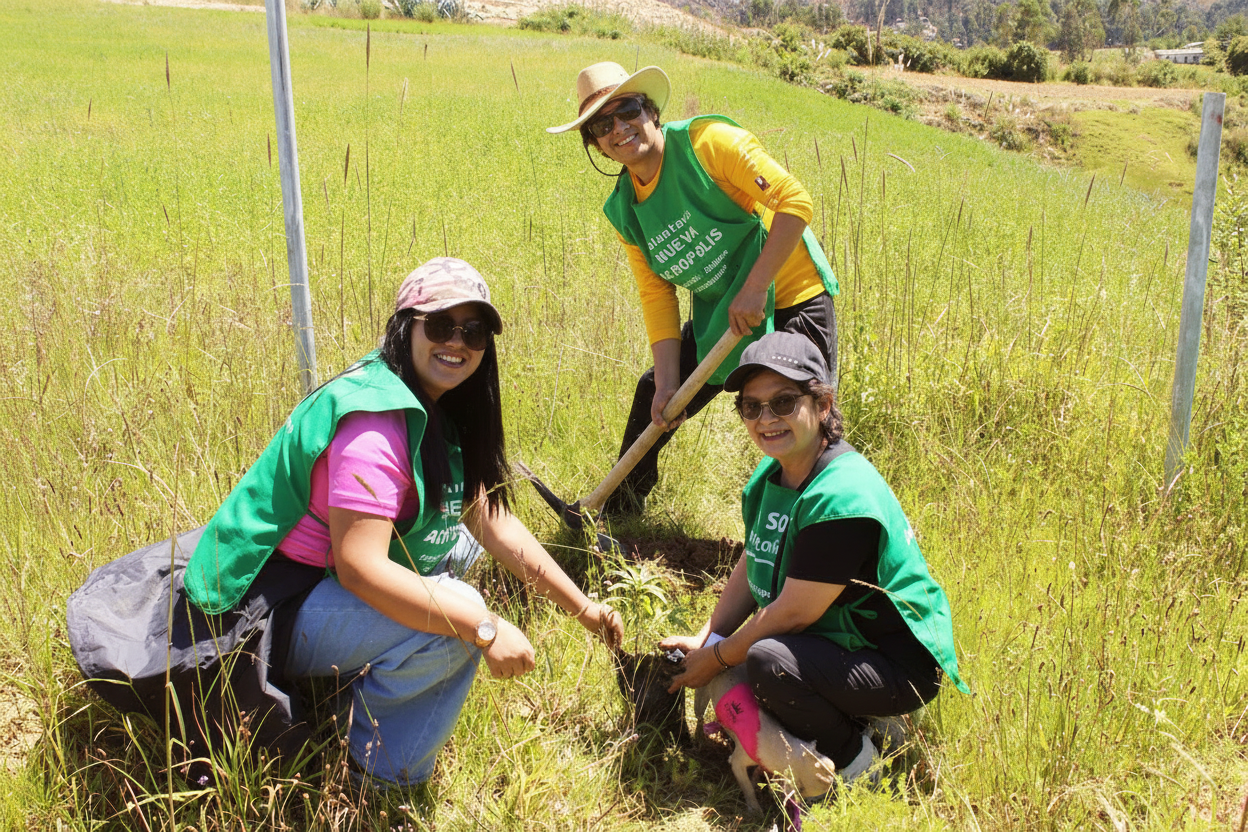
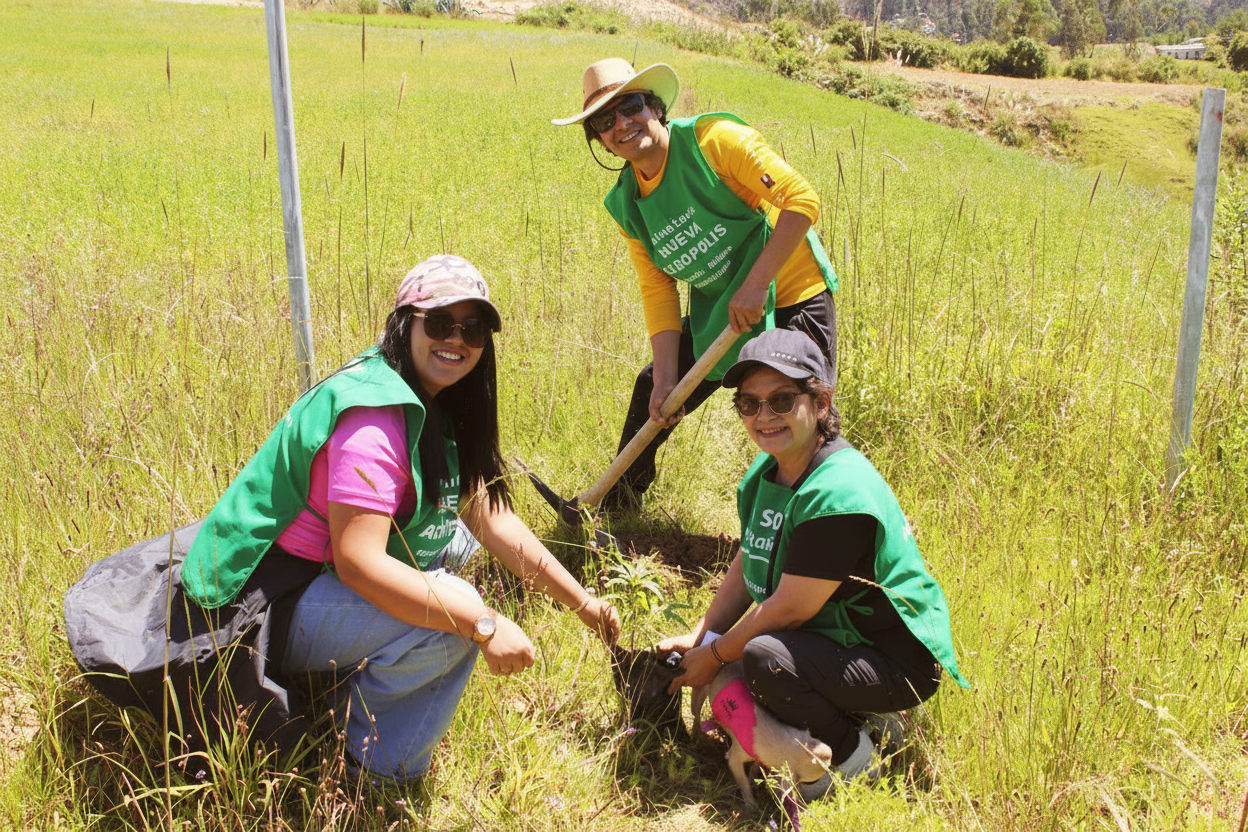
Changes

diff --git a/src/pages/Voluntariado.tsx b/src/pages/Voluntariado.tsx
@@ -102,7 +102,7 @@ const Voluntariado = () => {
                 <OptimizedImage 
                   src={volunteeringImage} 
                   alt="Equipo de voluntarios de Nueva Acrópolis realizando labor social en comunidad peruana" 
-                  className="w-full h-full object-cover"
+                  className="w-full h-full object-cover object-[center_35%]"
                   containerClassName="w-full h-full"
                 />
               </div>
